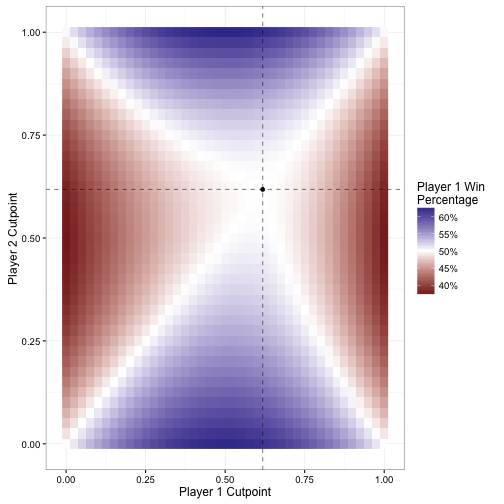
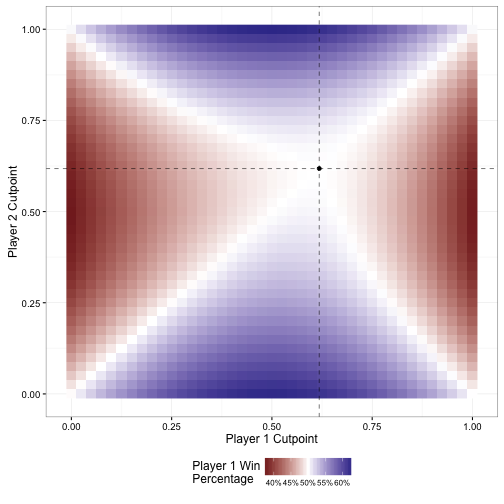
Fix legend position in game show

diff --git a/_posts/2016-03-09-can-you-win-this-hot-new-game-show.md b/_posts/2016-03-09-can-you-win-this-hot-new-game-show.md
@@ -251,7 +251,9 @@ ggplot(cut_combo, aes(cut1, cut2, fill = p1_prop)) +
   labs(x = "Player 1 Cutpoint",
        y = "Player 2 Cutpoint",
        fill = "Player 1 Win\nPercentage") +
-  theme_bw()
+  theme_bw() +
+  theme(legend.position = "bottom",
+        legend.text = element_text(size = 8))
 {% endhighlight %}
 
 ![center](/figs/2016-03-09-can-you-win-this-hot-new-game-show/vary_cut_plot-1.png)
